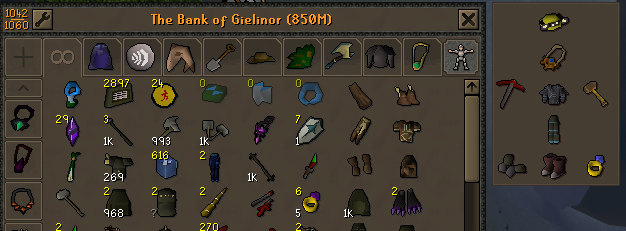
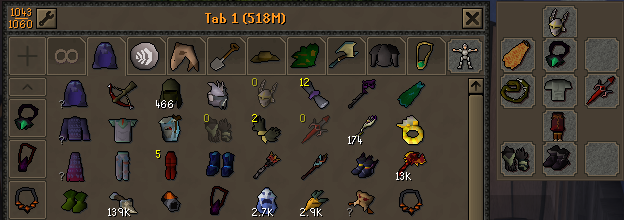
Match equipment preview to in-game layout

diff --git a/src/main/java/com/equipmentpreview/EquipmentPreviewOverlay.java b/src/main/java/com/equipmentpreview/EquipmentPreviewOverlay.java
@@ -16,8 +16,10 @@ import net.runelite.api.ItemComposition;
 import net.runelite.api.ItemContainer;
 import net.runelite.api.gameval.InterfaceID;
 import net.runelite.api.gameval.InventoryID;
+import net.runelite.api.gameval.SpriteID;
 import net.runelite.api.widgets.Widget;
 import net.runelite.client.game.ItemManager;
+import net.runelite.client.game.SpriteManager;
 import net.runelite.client.ui.JagexColors;
 import net.runelite.client.ui.overlay.OverlayLayer;
 import net.runelite.client.ui.overlay.OverlayPanel;
@@ -33,7 +35,10 @@ class EquipmentPreviewOverlay extends OverlayPanel
 {
 	private static final int GAP_X = 6;
 	private static final int PANEL_GAP = 6;
-	private static final int PANEL_WIDTH = 3 * Constants.ITEM_SPRITE_WIDTH + 2 * GAP_X
+	private static final int SLOT_SIZE_ADJUSTMENT = 2;
+	private static final int SLOT_WIDTH = Constants.ITEM_SPRITE_WIDTH + SLOT_SIZE_ADJUSTMENT;
+	private static final int SLOT_HEIGHT = Constants.ITEM_SPRITE_HEIGHT + SLOT_SIZE_ADJUSTMENT;
+	private static final int PANEL_WIDTH = 3 * SLOT_WIDTH + 2 * GAP_X
 		+ 2 * ComponentConstants.STANDARD_BORDER;
 	private static final int[] DISPLAY_SLOTS = {
 		-1, EquipmentInventorySlot.HEAD.getSlotIdx(), -1,
@@ -43,23 +48,25 @@ class EquipmentPreviewOverlay extends OverlayPanel
 		EquipmentInventorySlot.GLOVES.getSlotIdx(), EquipmentInventorySlot.BOOTS.getSlotIdx(), EquipmentInventorySlot.RING.getSlotIdx()
 	};
 	private static final ImageComponent EMPTY_SLOT = new ImageComponent(new BufferedImage(
-		Constants.ITEM_SPRITE_WIDTH,
-		Constants.ITEM_SPRITE_HEIGHT,
+		SLOT_WIDTH,
+		SLOT_HEIGHT,
 		BufferedImage.TYPE_4BYTE_ABGR));
 
 	private final Client client;
 	private final EquipmentPreviewConfig config;
 	private final ItemManager itemManager;
+	private final SpriteManager spriteManager;
 	private final PanelComponent itemGrid = new PanelComponent();
 
 	@Inject
-	private EquipmentPreviewOverlay(Client client, EquipmentPreviewConfig config, ItemManager itemManager)
+	private EquipmentPreviewOverlay(Client client, EquipmentPreviewConfig config, ItemManager itemManager, SpriteManager spriteManager)
 	{
 		this.client = client;
 		this.config = config;
 		this.itemManager = itemManager;
+		this.spriteManager = spriteManager;
 		setPosition(OverlayPosition.DYNAMIC);
-		setLayer(OverlayLayer.ABOVE_WIDGETS);
+		setLayer(OverlayLayer.ALWAYS_ON_TOP);
 		setMovable(true);
 		setSnappable(false);
 		setResizable(false);
@@ -70,7 +77,7 @@ class EquipmentPreviewOverlay extends OverlayPanel
 		panelComponent.setOrientation(ComponentOrientation.VERTICAL);
 
 		itemGrid.setWrap(true);
-		itemGrid.setGap(new Point(GAP_X, 4));
+		itemGrid.setGap(new Point(GAP_X, 0));
 		itemGrid.setBorder(new Rectangle());
 		itemGrid.setBackgroundColor(null);
 		itemGrid.setOrientation(ComponentOrientation.HORIZONTAL);
@@ -80,7 +87,7 @@ class EquipmentPreviewOverlay extends OverlayPanel
 	public Dimension render(Graphics2D graphics)
 	{
 		Widget bank = client.getWidget(InterfaceID.Bankmain.UNIVERSE);
-		if (!config.showPreview() || bank == null || bank.isHidden())
+		if (!config.showPreview() || bank == null)
 		{
 			return null;
 		}
@@ -91,17 +98,13 @@ class EquipmentPreviewOverlay extends OverlayPanel
 		}
 
 		ItemContainer equipment = client.getItemContainer(InventoryID.WORN);
-		if (equipment == null)
-		{
-			return null;
-		}
 
 		EquipmentTotals totals = new EquipmentTotals();
 		itemGrid.getChildren().clear();
 		for (int slot : DISPLAY_SLOTS)
 		{
-			Item item = slot < 0 ? null : equipment.getItem(slot);
-			itemGrid.getChildren().add(item == null || item.getId() < 0 ? EMPTY_SLOT : image(item));
+			Item item = slot < 0 || equipment == null ? null : equipment.getItem(slot);
+			itemGrid.getChildren().add(slot < 0 ? EMPTY_SLOT : item == null || item.getId() < 0 ? slot(null) : slot(item));
 			if (config.showStats() && item != null && item.getId() >= 0)
 			{
 				totals.add(itemManager.getItemStats(item.getId()));
@@ -124,6 +127,31 @@ class EquipmentPreviewOverlay extends OverlayPanel
 			? right
 			: bankLocation.getX() - PANEL_WIDTH - PANEL_GAP;
 		return new Point(x, bankLocation.getY());
+	}
+
+	private ImageComponent slot(Item item)
+	{
+		BufferedImage tile = spriteManager.getSprite(SpriteID.Miscgraphics.EQUIPMENT_SLOT_TILE, 0);
+		if (tile == null)
+		{
+			return item == null ? EMPTY_SLOT : image(item);
+		}
+
+		BufferedImage slot = new BufferedImage(SLOT_WIDTH, SLOT_HEIGHT, BufferedImage.TYPE_4BYTE_ABGR);
+		Graphics2D graphics = slot.createGraphics();
+		graphics.drawImage(tile, 0, 0, SLOT_WIDTH, SLOT_HEIGHT, null);
+		if (item != null)
+		{
+			ItemComposition composition = itemManager.getItemComposition(item.getId());
+			BufferedImage itemImage = itemManager.getImage(item.getId(), item.getQuantity(), composition.isStackable());
+			if (itemImage != null)
+			{
+				graphics.drawImage(itemImage, (SLOT_WIDTH - itemImage.getWidth()) / 2 + 1,
+					(SLOT_HEIGHT - itemImage.getHeight()) / 2, null);
+			}
+		}
+		graphics.dispose();
+		return new ImageComponent(slot);
 	}
 
 	private ImageComponent image(Item item)
